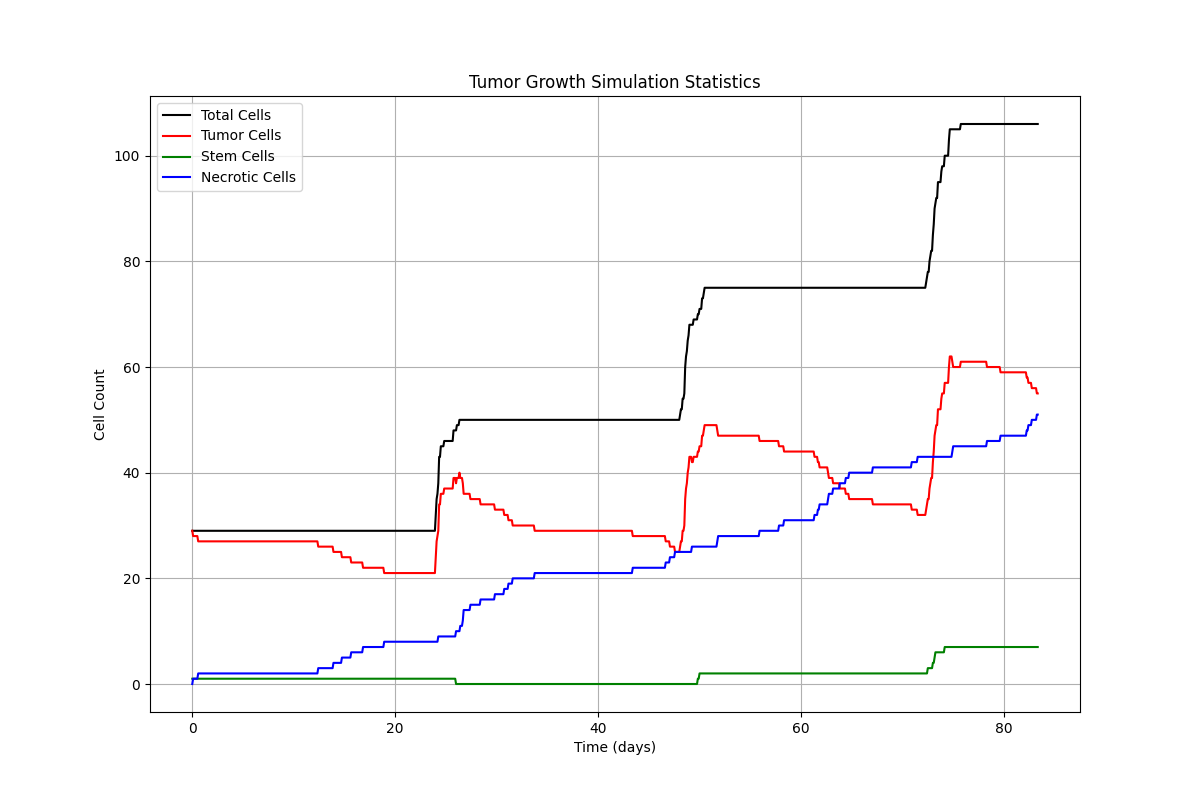
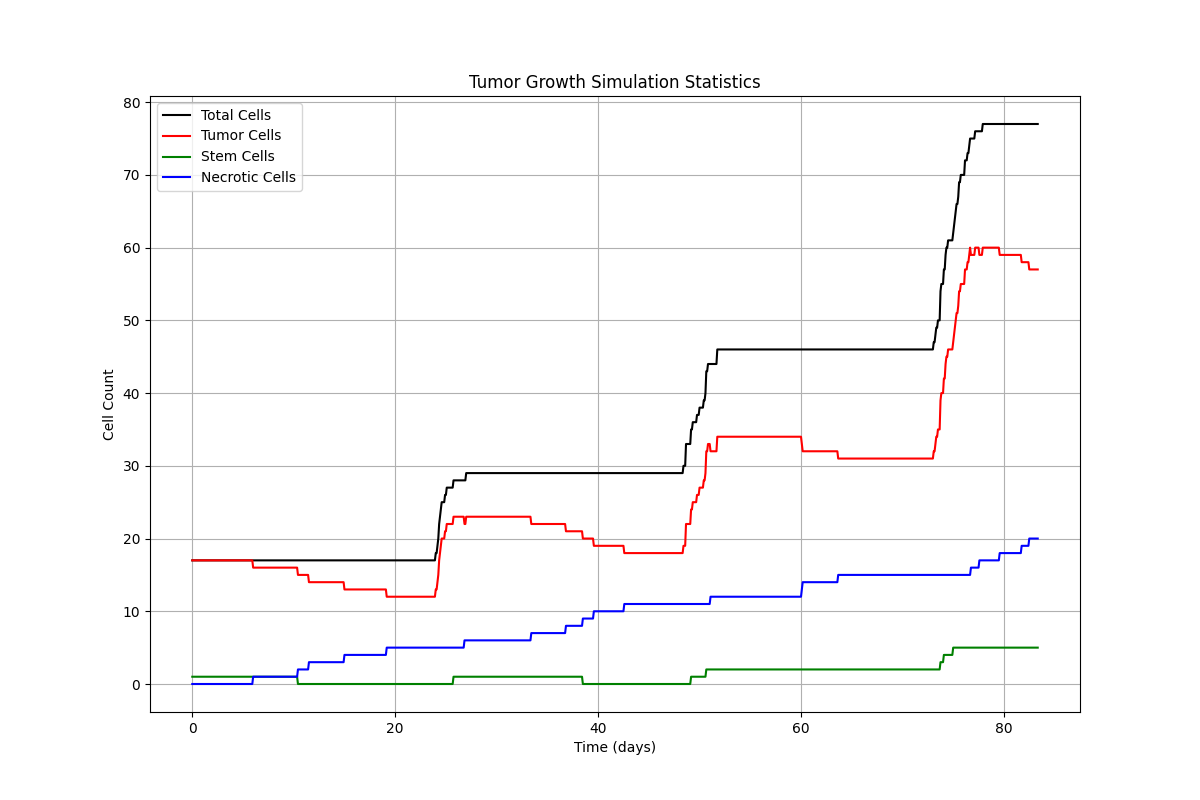
feat: oprimized simulation logic (iterating through active cells) & new parameter (run_statiscis <bool>)

diff --git a/simulation.py b/simulation.py
@@ -12,6 +12,7 @@ import matplotlib.pyplot as plt
 from cell import Cell, StemCell, NecroticCell, TumorCell, EmptyCell
 from grid import Grid
 
+SHARED_EMPTY_CELL = EmptyCell(-1, -1)
 class TumorSimulation:
     """
     Simulation class to handle the time evolution of the tumor model.
@@ -27,7 +28,8 @@ class TumorSimulation:
         stem_cell_potentional: int = 12,
         migration_potentional: int = 1,
         tumor_size: int = 10,
-        seed: Optional[str] = None
+        seed: Optional[str] = None,
+        run_statistics: bool = False
     ):
         """
         Initialize the tumor simulation environment.
@@ -42,6 +44,8 @@ class TumorSimulation:
             migration_potentional (int): Migration activity level of a cell per day.
             tumor_size (int): Size of the square tumor matrix.
             seed (Optional[str]): Seed for reproducibility of random events.
+            run_statistics (bool): If True, statistics will be saved. 
+            If False, statistics will not be saved, which improves performance.
         """
 
         self.n_rows, self.n_cols = grid_size
@@ -52,31 +56,7 @@ class TumorSimulation:
         self.stem_cell_potentional = stem_cell_potentional
         self.migration_potentional = migration_potentional
         self.tumor_size = tumor_size
-
-        # --- Time-variable parameter arrays ---
-
-        # Death rate over time (per time step).
-        # Represents the probability or rate at which cells die.
-        self.vect_deat = np.zeros(maximum_time_steps + 1)
-        self.vect_deat[:round(0.5*maximum_time_steps)] = 0.01*time_step
-        self.vect_deat[round(0.5*maximum_time_steps):] = 0.01*time_step
-
-        # Proliferation rate over time.
-        # Scales with how often cells divide, normalized to simulation time steps.
-        # Formula: (24 hours / cell_cycle_time) × time_step.
-        self.vect_prol = np.zeros(maximum_time_steps + 1)
-        self.vect_prol[:] = 24 / cell_cycle_time * time_step
-
-        # Migration potential over time. Represents how likely or far a cell can migrate.
-        # Currently fixed to 10 × time_step throughout the simulation.
-        self.vect_potm = np.zeros(maximum_time_steps + 1)
-        self.vect_potm[:round(0.4*maximum_time_steps)] = 10 * time_step
-        self.vect_potm[round(0.4*maximum_time_steps):] = 10 * time_step
-
-        # Stem cell behavior parameter over time.
-        # Could represent differentiation rate, plasticity, or activation rate.
-        self.vect_stem = np.zeros(maximum_time_steps + 1)
-        self.vect_stem[:] = 0.1
+        self.run_statistics = run_statistics
 
         self.grid = Grid(
             n=self.n_rows,
@@ -87,14 +67,34 @@ class TumorSimulation:
         )
 
         self.cells = {}
+        self.active_cells = set()
         self.__initialize_cells_from_grid()
 
+        # --- Time-variable parameter arrays ---
+
+        # Death rate over time (per time step).
+        # Represents the probability or rate at which cells die.
+        self.vect_deat = np.full(maximum_time_steps + 1, 0.01 * time_step)
+
+        # Proliferation rate over time.
+        # Scales with how often cells divide, normalized to simulation time steps.
+        # Formula: (24 hours / cell_cycle_time) × time_step.
+        self.vect_prol = np.full(maximum_time_steps + 1, (24 / cell_cycle_time) * time_step)
+
+        # Migration potential over time. Represents how likely or far a cell can migrate.
+        # Currently fixed to 10 × time_step throughout the simulation.
+        self.vect_potm = np.full(maximum_time_steps + 1, 10 * time_step)
+
+        # Stem cell behavior parameter over time.
+        # Could represent differentiation rate, plasticity, or activation rate
+        self.vect_stem = np.full(maximum_time_steps + 1, 0.1)
+
         self.stats = {
-            'time': [],
-            'total_cells': [],
-            'tumor_cells': [],
-            'stem_cells': [],
-            'necrotic_cells': []
+            'time': np.zeros(maximum_time_steps + 1),
+            'total_cells': np.zeros(maximum_time_steps + 1, dtype=int),
+            'tumor_cells': np.zeros(maximum_time_steps + 1, dtype=int),
+            'stem_cells': np.zeros(maximum_time_steps + 1, dtype=int),
+            'necrotic_cells': np.zeros(maximum_time_steps + 1, dtype=int)
         }
 
         self.current_step = 0
@@ -115,7 +115,6 @@ class TumorSimulation:
         """
 
         tumor = np.zeros((tumor_size, tumor_size), dtype=int)
-
         center = tumor_size // 2
         tumor[center, center] = stem_cell_potentional
 
@@ -133,24 +132,19 @@ class TumorSimulation:
         for i in range(self.n_rows):
             for j in range(self.n_cols):
                 cell_type = self.grid[i][j]
+                pos = (i, j)
 
                 if cell_type == 0:
-                    self.cells[(i, j)] = EmptyCell(i, j)
-
+                    self.cells[pos] = SHARED_EMPTY_CELL
                 elif cell_type == 1:
-                    tumor_cell = TumorCell(i, j,\
-                        self.cell_cycle_time, self.regular_cell_division_potentional)
-
-                    tumor_cell.divisions_left = self.regular_cell_division_potentional
-
-                    self.cells[(i, j)] = tumor_cell
-
+                    cell = TumorCell(i, j, \
+            self.cell_cycle_time, self.regular_cell_division_potentional)
+                    self.cells[pos] = cell
+                    self.active_cells.add(pos)
                 elif cell_type == self.stem_cell_potentional:
-                    stem_cell = StemCell(i, j, self.cell_cycle_time)
-
-                    stem_cell.divisions_left = 0
-
-                    self.cells[(i, j)] = stem_cell
+                    cell = StemCell(i, j, self.cell_cycle_time)
+                    self.cells[pos] = cell
+                    self.active_cells.add(pos)
 
     def get_empty_neighbors(self, i: int, j: int):
         """ Identify all adjacent empty cells around a given cell.
@@ -164,9 +158,8 @@ class TumorSimulation:
             neighboring grid positions that are currently empty (i.e., contain an EmptyCell object).
         """
 
-        neighbors = self.grid.get_neighbours(i, j)
-
-        return [(ni, nj) for ni, nj in neighbors if isinstance(self.cells.get((ni, nj)), EmptyCell)]
+        return [(ni, nj) for ni, nj in self.grid.get_neighbours(i, j)
+                if self.cells.get((ni, nj)) == SHARED_EMPTY_CELL]
 
     def update_grid_cell(self, i: int, j: int, cell_obj: Cell):
         """
@@ -178,17 +171,21 @@ class TumorSimulation:
             cell_obj (Cell): The new cell object to place at position (i, j).
         """
 
+        pos = (i, j)
         if isinstance(cell_obj, EmptyCell):
             self.grid[i, j] = 0
-        elif isinstance(cell_obj, TumorCell):
-            if isinstance(cell_obj, StemCell):
-                self.grid[i, j] = self.stem_cell_potentional
-            else:
-                self.grid[i, j] = 1
+            self.active_cells.discard(pos)
         elif isinstance(cell_obj, NecroticCell):
             self.grid[i, j] = 2
+            self.active_cells.discard(pos)
+        elif isinstance(cell_obj, StemCell):
+            self.grid[i, j] = self.stem_cell_potentional
+            self.active_cells.add(pos)
+        elif isinstance(cell_obj, TumorCell):
+            self.grid[i, j] = 1
+            self.active_cells.add(pos)
 
-        self.cells[(i, j)] = cell_obj
+        self.cells[pos] = cell_obj
 
     def __run_step(self):
         """ Executes a single time step of the tumor simulation.
@@ -199,64 +196,59 @@ class TumorSimulation:
         """
 
         death_prob = self.vect_deat[self.current_step]
-        proliferation_prob = self.vect_prol[self.current_step]
-        migration_prob = self.vect_potm[self.current_step]
+        prolif_prob = self.vect_prol[self.current_step]
+        migrate_prob = self.vect_potm[self.current_step]
         stem_prob = self.vect_stem[self.current_step]
 
-        cell_positions = list(self.cells.keys())
-
-        for pos in cell_positions:
+        for pos in list(self.active_cells):
             cell = self.cells[pos]
-
             if cell.is_alive:
                 cell.update_timer(self.time_step)
 
-        for pos in cell_positions:
+        for pos in list(self.active_cells):
             i, j = pos
             cell = self.cells[pos]
 
             if not cell.is_alive:
                 continue
 
+            # Death
             if random.random() < death_prob:
-                necrotic_cell = NecroticCell(i, j)
-                self.update_grid_cell(i, j, necrotic_cell)
+                self.update_grid_cell(i, j, NecroticCell(i, j))
                 continue
 
-            if cell.can_divide() and isinstance(cell, (TumorCell, StemCell)):
+            # Division
+            if cell.can_divide() and random.random() < prolif_prob:
                 empty_neighbors = self.get_empty_neighbors(i, j)
-
-                if empty_neighbors and random.random() < proliferation_prob:
+                if empty_neighbors:
                     ni, nj = random.choice(empty_neighbors)
-
                     cell.reset_timer()
 
                     if isinstance(cell, TumorCell) and not isinstance(cell, StemCell):
                         cell.divisions_left -= 1
-
                         if cell.divisions_left <= 0:
-                            necrotic_cell = NecroticCell(i, j)
-                            self.update_grid_cell(i, j, necrotic_cell)
+                            self.update_grid_cell(i, j, NecroticCell(i, j))
                             continue
 
-                    daughter = cell.divide(stem_prob,\
-                        self.regular_cell_division_potentional, self.stem_cell_potentional)
-
+                    daughter = cell.divide(
+                        stem_prob,
+                        self.regular_cell_division_potentional,
+                        self.stem_cell_potentional
+                    )
                     self.update_grid_cell(ni, nj, daughter)
 
-            if random.random() < migration_prob:
+            # Migration
+            if random.random() < migrate_prob:
                 empty_neighbors = self.get_empty_neighbors(i, j)
                 new_pos = cell.migrate(empty_neighbors)
-
                 if new_pos:
                     ni, nj = new_pos
-
-                    self.update_grid_cell(i, j, EmptyCell(i, j))
-
+                    self.update_grid_cell(i, j, SHARED_EMPTY_CELL)
                     cell.x, cell.y = ni, nj
                     self.update_grid_cell(ni, nj, cell)
 
-        self.__record_statistics()
+        if self.run_statistics:
+            self.__record_statistics()
 
         self.current_step += 1
         self.current_time += self.time_step
@@ -270,36 +262,36 @@ class TumorSimulation:
         maximum number of time steps is reached.
         """
 
-        while self.current_step <= self.maximum_time_steps:
-            self.__run_step()
+        while self.__run_step():
+            pass
+
+        if self.run_statistics:
+            self.plot_statistics()
+            plt.savefig('tumor_stats.png')
 
     def __record_statistics(self):
         """ Records the current state of the simulation, including the count of 
         total cells, tumor cells, stem cells, and necrotic cells.
         """
 
-        total_cells = 0
-        tumor_cells = 0
-        stem_cells = 0
-        necrotic_cells = 0
-
+        total, tumor, stem, necrotic = 0, 0, 0, 0
         for cell in self.cells.values():
-            if not isinstance(cell, EmptyCell):
-                total_cells += 1
+            if cell == SHARED_EMPTY_CELL:
+                continue
+            total += 1
+            if isinstance(cell, NecroticCell):
+                necrotic += 1
+            elif isinstance(cell, StemCell):
+                stem += 1
+                tumor += 1
+            elif isinstance(cell, TumorCell):
+                tumor += 1
 
-                if isinstance(cell, NecroticCell):
-                    necrotic_cells += 1
-                elif isinstance(cell, StemCell):
-                    stem_cells += 1
-                    tumor_cells += 1
-                elif isinstance(cell, TumorCell):
-                    tumor_cells += 1
-
-        self.stats['time'].append(self.current_time)
-        self.stats['total_cells'].append(total_cells)
-        self.stats['tumor_cells'].append(tumor_cells)
-        self.stats['stem_cells'].append(stem_cells)
-        self.stats['necrotic_cells'].append(necrotic_cells)
+        self.stats['time'][self.current_step] = self.current_time
+        self.stats['total_cells'][self.current_step] = total
+        self.stats['tumor_cells'][self.current_step] = tumor
+        self.stats['stem_cells'][self.current_step] = stem
+        self.stats['necrotic_cells'][self.current_step] = necrotic
 
     def plot_statistics(self):
         """ Plots the evolution of key statistics
@@ -307,33 +299,30 @@ class TumorSimulation:
         """
 
         plt.figure(figsize=(12, 8))
-
-        plt.plot(self.stats['time'], self.stats['total_cells'], 'k-', label='Total Cells')
-        plt.plot(self.stats['time'], self.stats['tumor_cells'], 'r-', label='Tumor Cells')
-        plt.plot(self.stats['time'], self.stats['stem_cells'], 'g-', label='Stem Cells')
-        plt.plot(self.stats['time'], self.stats['necrotic_cells'], 'b-', label='Necrotic Cells')
-
+        t = self.stats['time'][:self.current_step + 1]
+        plt.plot(t, self.stats['total_cells'][:self.current_step + 1], 'k-', label='Total Cells')
+        plt.plot(t, self.stats['tumor_cells'][:self.current_step + 1], 'r-', label='Tumor Cells')
+        plt.plot(t, self.stats['stem_cells'][:self.current_step + 1], 'g-', label='Stem Cells')
+        plt.plot(t, self.stats['necrotic_cells'][:self.current_step + 1], \
+                  'b-', label='Necrotic Cells')
         plt.xlabel('Time (days)')
         plt.ylabel('Cell Count')
         plt.title('Tumor Growth Simulation Statistics')
         plt.legend()
         plt.grid(True)
-
         return plt.gcf()
 
 if __name__ == "__main__":
     sim = TumorSimulation(
-        grid_size=(100, 100),
+        grid_size=(1000, 1000),
         maximum_time_steps=1000,
         time_step=1/12,
         cell_cycle_time=24,
         regular_cell_division_potentional=11,
         stem_cell_potentional=12,
         migration_potentional=1,
-        tumor_size=10
+        tumor_size=10,
+        run_statistics=False
     )
 
     sim.run_simulation()
-
-    sim.plot_statistics()
-    plt.savefig('tumor_stats.png')
